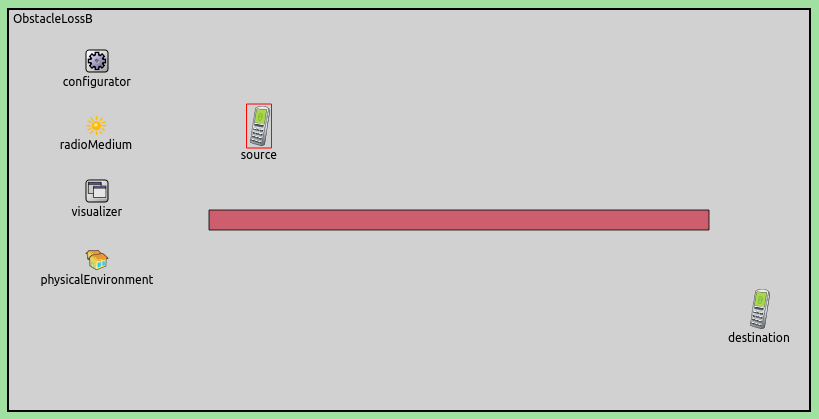
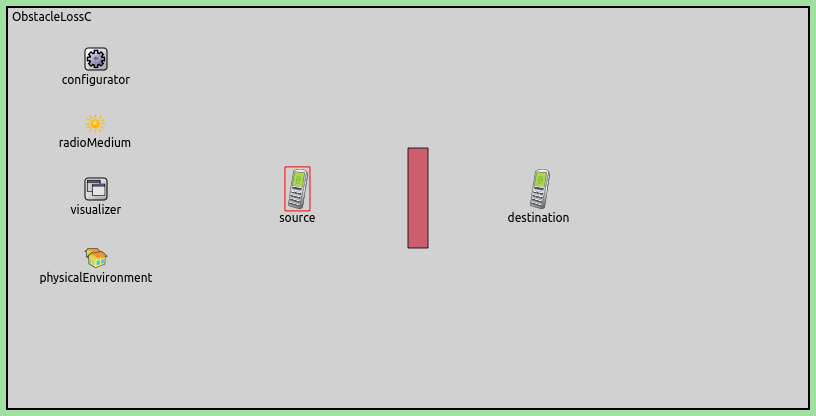
obstacleloss xxx

diff --git a/samples/visualizer/obstacleloss/html/index.html b/samples/visualizer/obstacleloss/html/index.html
@@ -26,15 +26,15 @@ It can display the magnitude of power loss in dB. Additionally, the face normal 
 
 <p>TODO: how to enable these?</p>
 
-<h2>The visualization</h2>
+<h2>Enabling the visualization</h2>
 
 <p>The configuration uses the following network:</p>
 
 <img src="obstaclelossnetwork.png">
 
 <p>
-It contains 2 <var>AdhocHosts</var> that are configured to move back and forth horizontally on the opposite sides of a wall in the middle of the
-playground. The <var>source</var> is configured to ping <var>destination</var>. The wall obstructs the signals. The configuration also contains an
+It contains 2 <var>AdhocHosts</var>, and a wall between them. The hosts are stationary, and one of them is configured to ping the other.
+The wall obstructs the signals. The configuration also contains an
 <var>IPv4NetworkConfigurator</var>, an <var>IntegratedVisualizer</var>, an <var>Ieee80211ScalarRadioMedium</var>, and a 
 <var>PhysicalEnvironment</var> module.
 </p>
@@ -49,6 +49,18 @@ with the <i>intersectionLineColor</i> parameter:
 *.visualizer.*.obstacleLossVisualizer.displayFaceNormalVectors = true
 *.visualizer.*.obstacleLossVisualizer.intersectionLineColor = "yellow"
 </div>
+
+<p>
+When the simulation is run, and <var>source</var> starts pinging <var>destination</var>, the signals go through the wall:
+</p>
+
+<img src="simple.png">
+
+<p>
+The intersection of the wall and the transmission is indicated with a yellow line.
+</p>
+
+<h2>Advanced features</h2>
 
 
 
